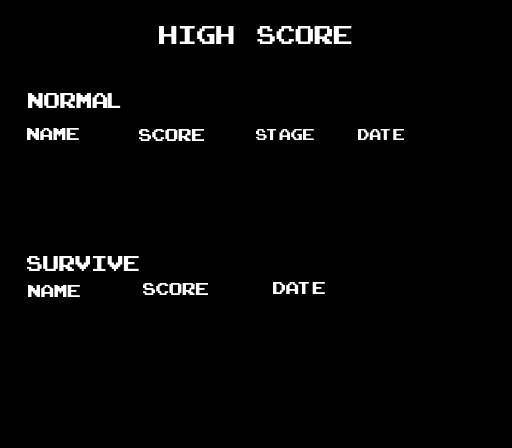
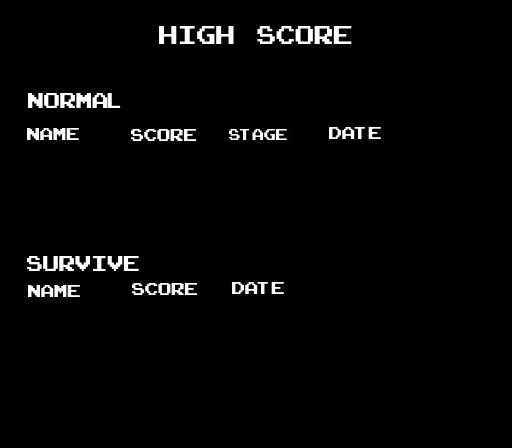
finish draw score screen

diff --git a/modify_mars/mars_src/mars/ext/mine/MenuScreen.java b/modify_mars/mars_src/mars/ext/mine/MenuScreen.java
@@ -9,6 +9,7 @@ import java.applet.AudioClip;
 import java.awt.*;
 import java.awt.image.BufferedImage;
 import java.io.File;
+import java.util.ArrayList;
 
 public class MenuScreen extends JFrame {
     private int height = 446;
@@ -43,6 +44,9 @@ public class MenuScreen extends JFrame {
         private int gapY = 42;
         private int maxindex = 3;
         private boolean checkingScore = false;
+        private String[] scoreElements = null;
+        private int[] elementsX = {27, 127, 227, 315, 27, 127, 227};
+        private int[] elementsY = {150, 150, 150, 150, 315, 315, 315};
 
         public Bg(Image image) {
 //            setup background image (assume selection screen must have background)
@@ -55,7 +59,7 @@ public class MenuScreen extends JFrame {
             this.cursorImg = cursorImg;
         }
 
-        public void setScoreBgImg(Image scoreBg){
+        public void setScoreBgImg(Image scoreBg) {
             this.scoreBgImg = scoreBg;
         }
 
@@ -93,21 +97,42 @@ public class MenuScreen extends JFrame {
 
         @Override
         protected void paintComponent(Graphics g) {
+
 //            super.paintComponent(g);
 //            draw the background
             g.drawImage(image, 0, 0, getWidth(), getHeight(), this);
 
 //            draw the cursor
-            g.drawImage(cursorImg, cursorX, cursorY , null);
+            g.drawImage(cursorImg, cursorX, cursorY, null);
 
 //            draw the score if the score option is choosen
-            if(checkingScore){
+            if (checkingScore) {
                 g.drawImage(scoreBgImg, 0, 0, getWidth(), getHeight(), this);
+
+
+                if (scoreElements != null) {
+                    // the text should be white
+                    g.setColor(Color.white);
+                    g.setFont(new Font("Verdana", Font.BOLD, 14));
+
+                    for (int i = 0; i < scoreElements.length; i++) {
+                        g.drawString(scoreElements[i], elementsX[i] , elementsY[i]);
+                    }
+                }
             }
+        }
+
+        public void fillScoreScreen(String[] texts) {
+            scoreElements = texts;
         }
     }
 
-    public void toggleScoreScreen(){
+    public void fillScoreScreen(String[] texts) {
+        panel.fillScoreScreen(texts);
+        paintComponents(getGraphics());
+    }
+
+    public void toggleScoreScreen() {
         panel.checkingScore = !panel.checkingScore;
         paintComponents(getGraphics());
     }
@@ -122,7 +147,7 @@ public class MenuScreen extends JFrame {
         introMusic.play();
     }
 
-    public void terminate(){
+    public void terminate() {
         introMusic.stop();
         dispose();
     }
@@ -155,10 +180,12 @@ public class MenuScreen extends JFrame {
         panel = new Bg(bg);
         panel.setCursorImg(cursor);
         panel.setScoreBgImg(scoreBg);
+        panel.setLayout(null);
         add(panel);
 
         setVisible(true);
         setTitle(title);
+        setLocationRelativeTo(null); // open in center
 
 //        for getting the input
         keyListener = new MMIOInput(true);

diff --git a/modify_mars/mars_src/mars/mips/instructions/syscalls/Syscall126.java b/modify_mars/mars_src/mars/mips/instructions/syscalls/Syscall126.java
@@ -1,0 +1,42 @@
+package mars.mips.instructions.syscalls;
+
+import mars.Globals;
+import mars.ProcessingException;
+import mars.ProgramStatement;
+import mars.ext.mine.MenuScreen;
+import mars.mips.hardware.AddressErrorException;
+import mars.mips.hardware.RegisterFile;
+
+public class Syscall126 extends AbstractSyscall {
+    public Syscall126() {
+        super(126, "fill score screen");
+    }
+
+    @Override
+    public void simulate(ProgramStatement paramProgramStatement) throws ProcessingException {
+
+        MenuScreen ms = MenuScreen.getInstance();
+
+        String str = new String();
+        int a0 = RegisterFile.getValue(4);
+        char[] arrayOfChar = {' '};
+
+        try {
+            arrayOfChar[0] = (char) Globals.memory.getByte(a0);
+            while (arrayOfChar[0] != '\000') {
+                str = str.concat(new String(arrayOfChar));
+                a0++;
+                arrayOfChar[0] = (char) Globals.memory.getByte(a0);
+            }
+
+            ms.fillScoreScreen(str.split(" "));
+
+
+        } catch (AddressErrorException addressErrorException) {
+
+            throw new ProcessingException(paramProgramStatement, addressErrorException);
+        }
+
+
+    }
+}
